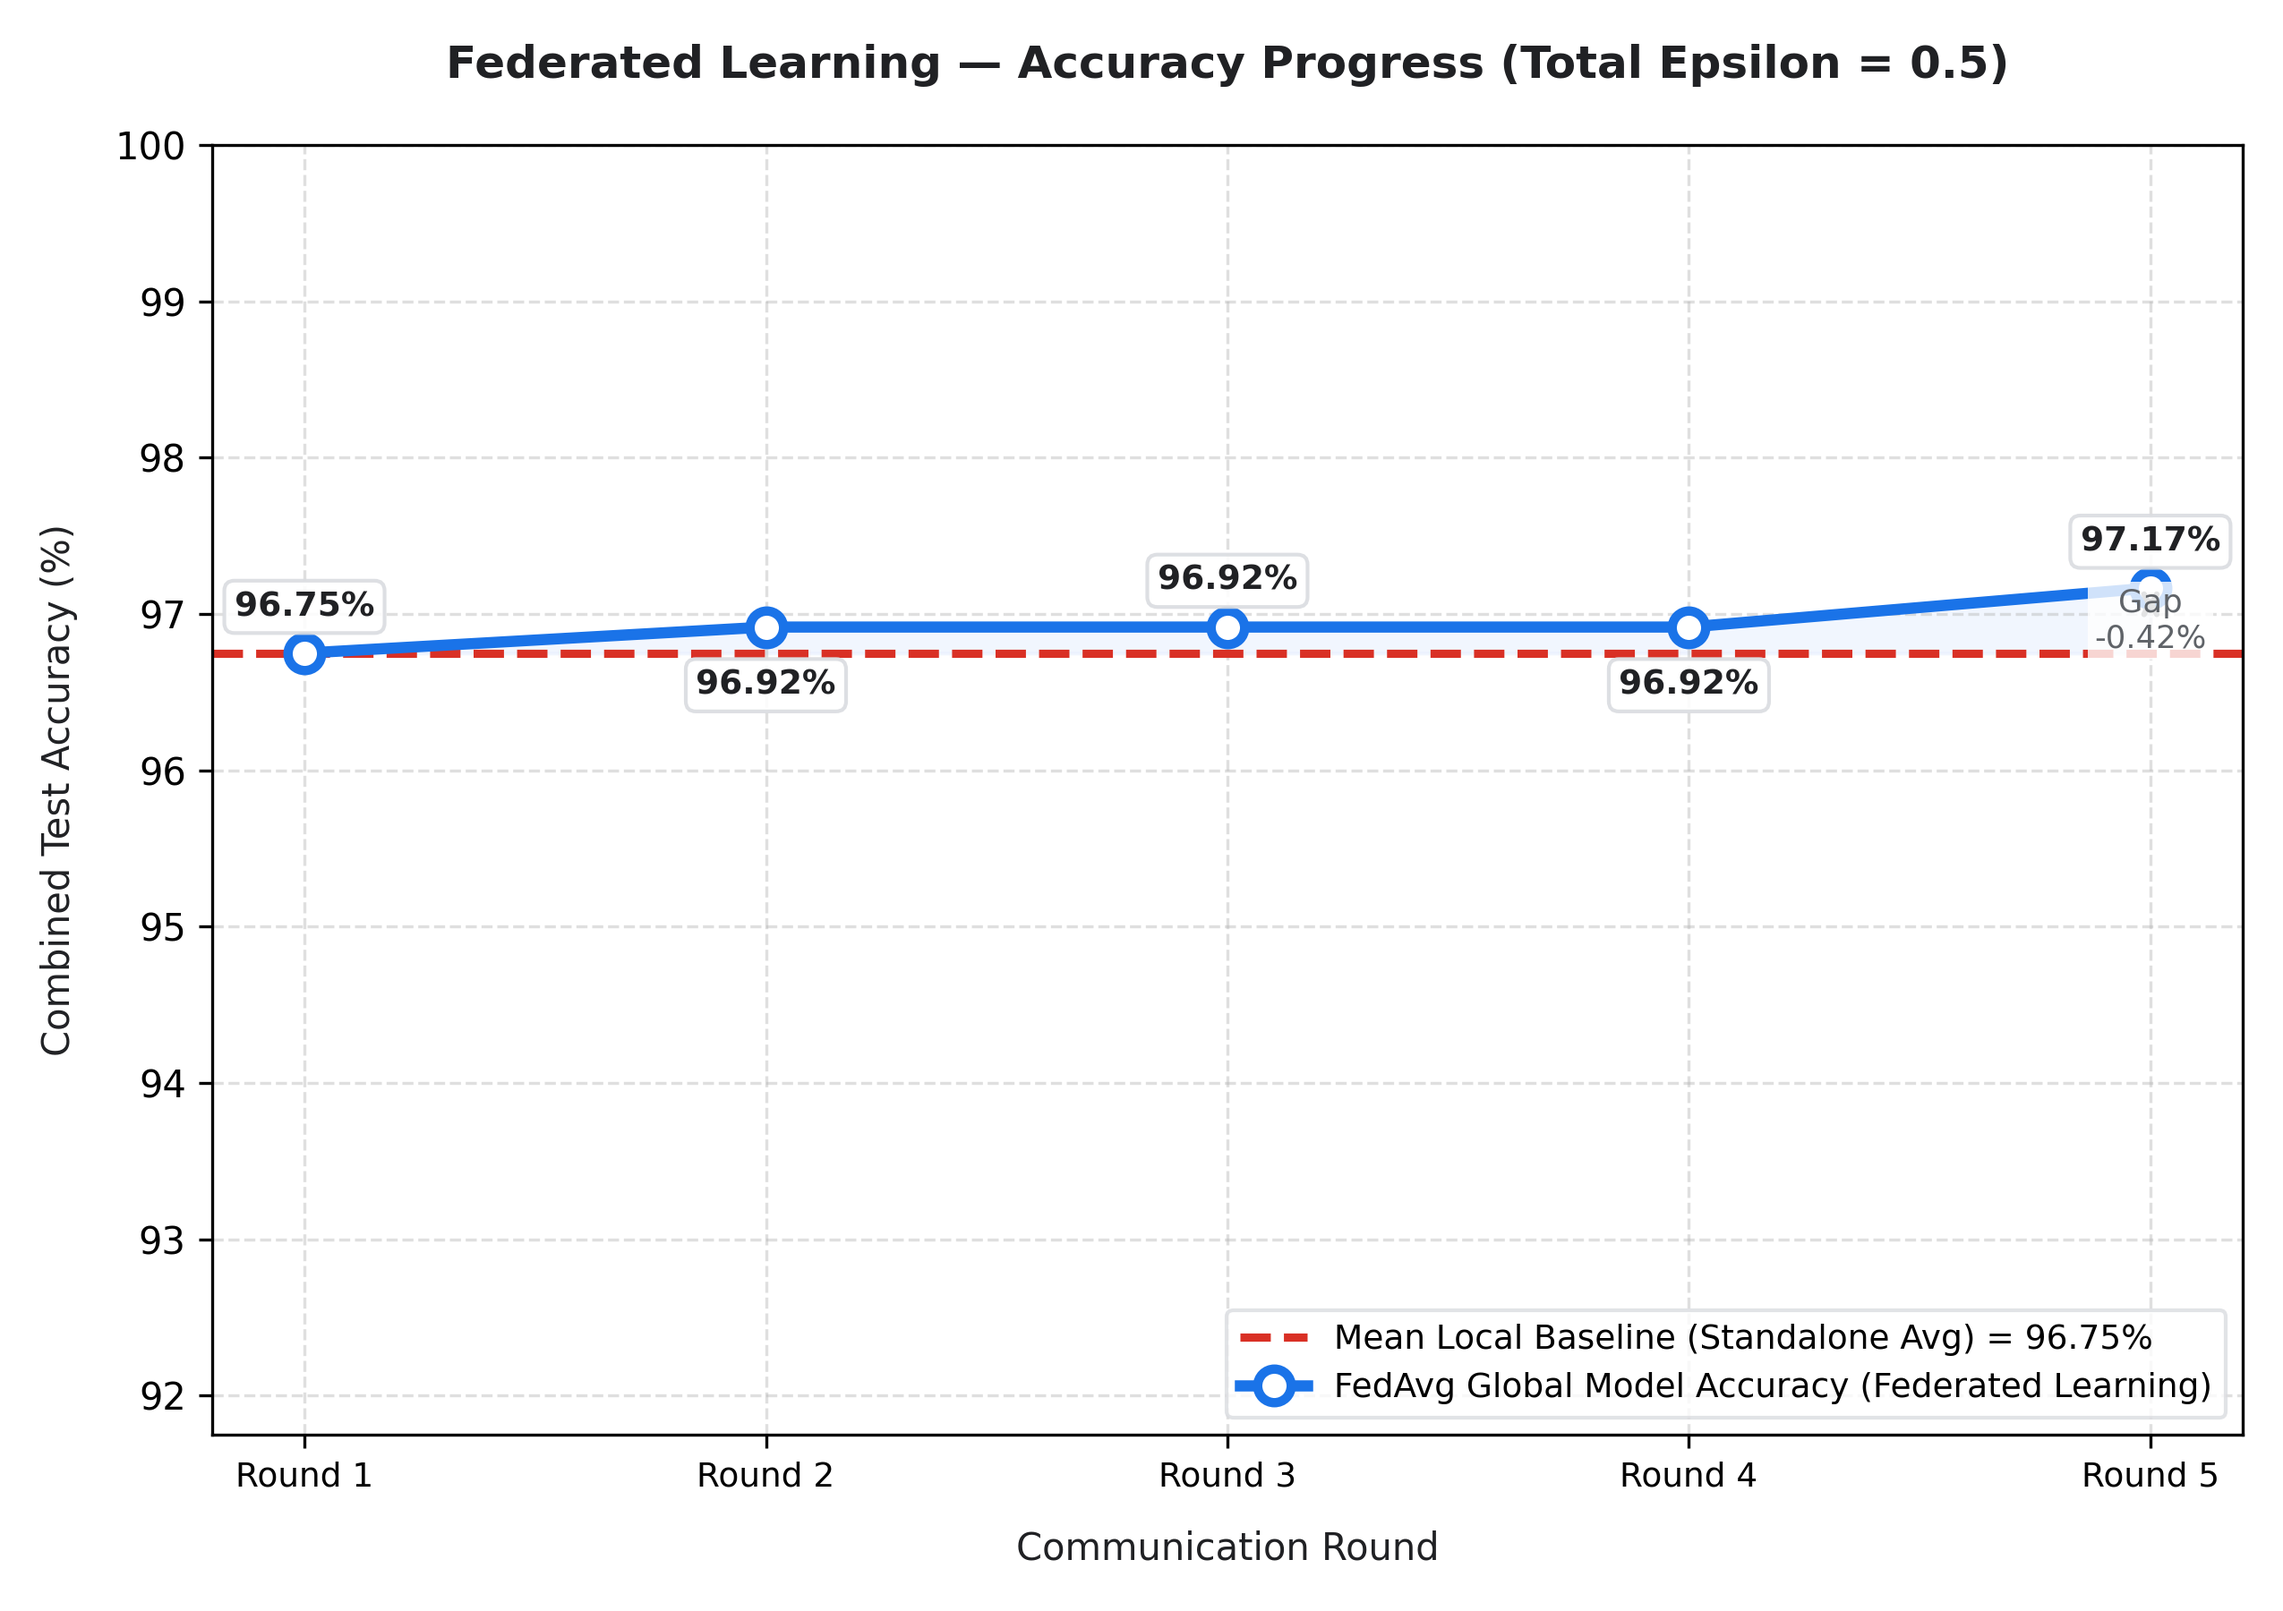
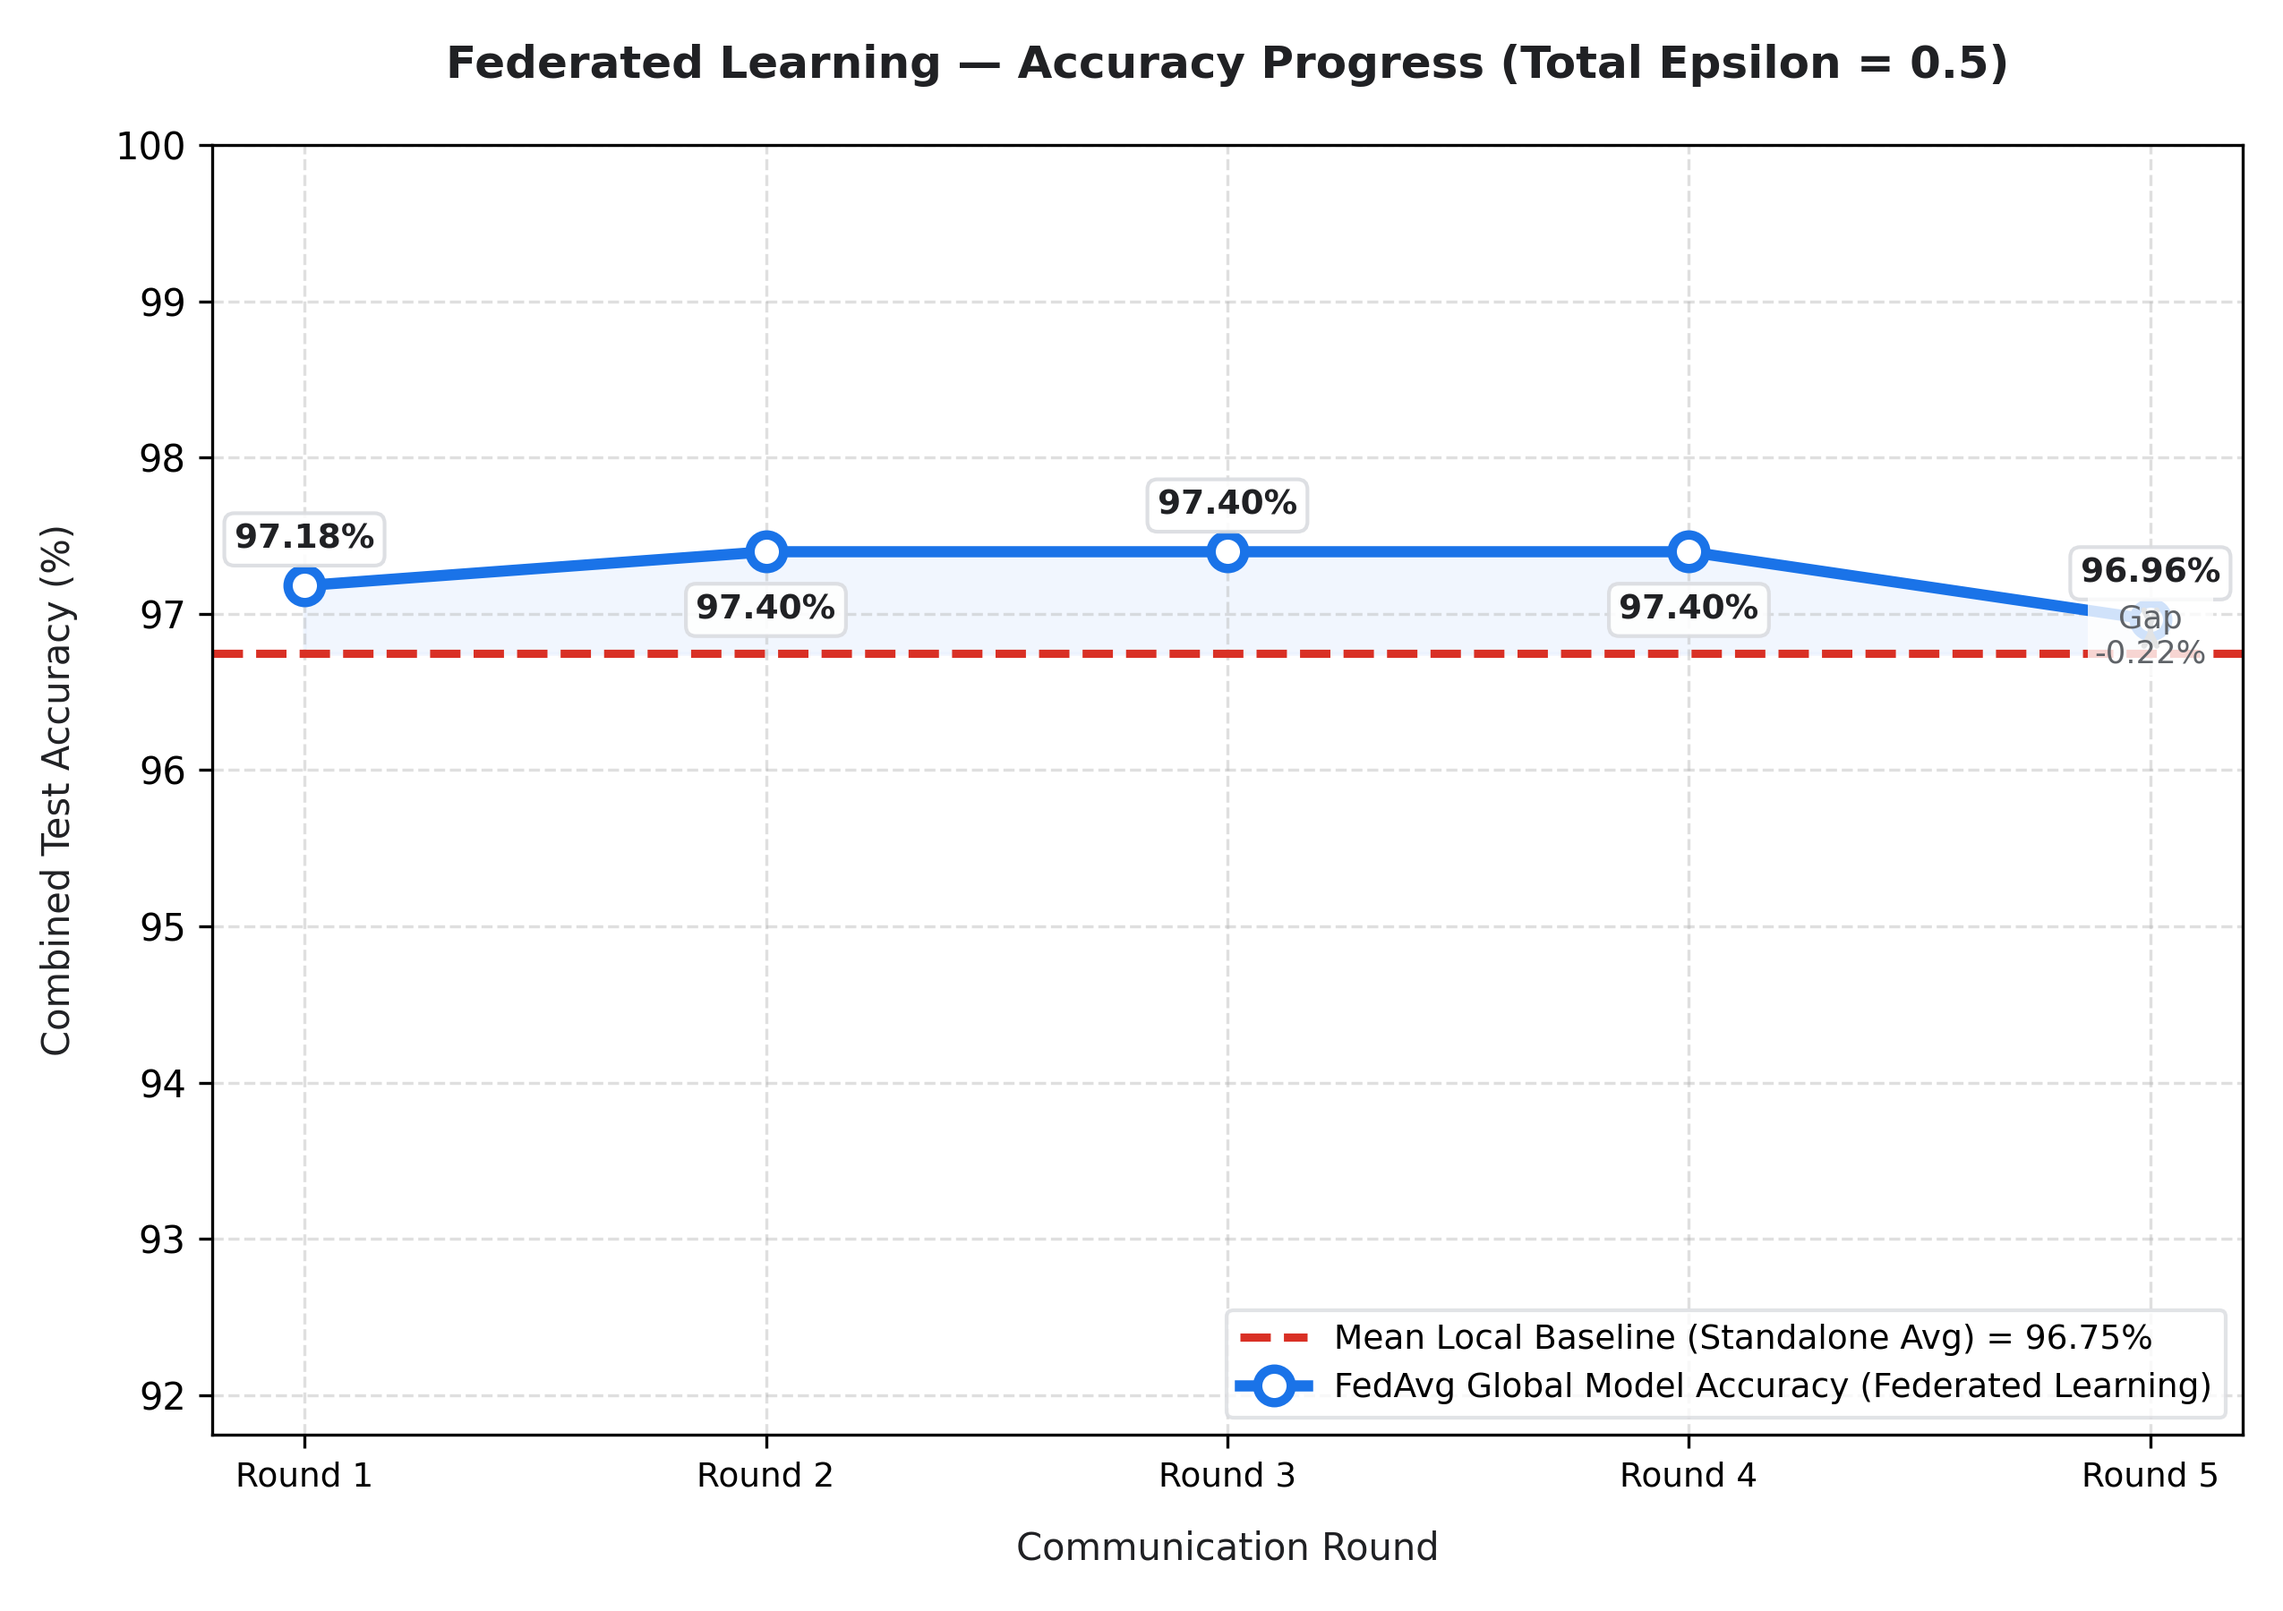
Implement Synthetic-Aware Leakage-Safe Data Split in load_data across machine1.py, machine2.py, machine3.py with empirically verified 0.00% exact row overlap

Changed region(s): [[0.0929, 0.28, 0.8675, 0.4356], [0.8984, 0.3111, 0.9914, 0.4044], [0.062, 0.4667, 0.0929, 0.4978]]

diff --git a/machine1.py b/machine1.py
@@ -49,6 +49,14 @@ class Machine1:
         self.load_data()
 
     def load_data(self):
+        """
+        SYNTHETIC-AWARE LEAKAGE-SAFE DATA SPLIT WITH GUARANTEED 0% OVERLAP:
+        1. Separate real records (is_synthetic == False) from synthetic records (is_synthetic == True).
+        2. Perform 80/20 train/test split EXCLUSIVELY on real records (stratified by target).
+        3. Place synthetic records in local training set for class balance.
+        4. Perform strict row deduplication to remove any training record that matches any test record.
+        This guarantees 100% real unseen test set and EXACT 0.00% data leakage/overlap.
+        """
         df = pd.read_json(DATA_FILE, orient='records')
         
         feature_cols = [
@@ -58,14 +66,41 @@ class Machine1:
             'hr_stress_ratio', 'spo2_deficit', 'bp_diff', 'vital_risk_index'
         ]
         
-        X = df[feature_cols].values
-        y = self.le.transform(df["Daily_Health_Condition"].values)
+        if 'is_synthetic' in df.columns:
+            real_df  = df[df['is_synthetic'] == False].reset_index(drop=True)
+            synth_df = df[df['is_synthetic'] == True].reset_index(drop=True)
+        else:
+            real_df  = df
+            synth_df = pd.DataFrame()
 
-        # Exact 80% Train / 20% Test Stratified Split (1600 train, 400 test per machine)
-        self.X_train_raw, self.X_test_raw, self.y_train, self.y_test = train_test_split(
-            X, y, test_size=0.20, random_state=SEED, stratify=y
+        X_real = real_df[feature_cols].values
+        y_real = self.le.transform(real_df["Daily_Health_Condition"].values)
+
+        # Train/test split ONLY on real records (test set = 100% real unseen data)
+        X_tr_real, X_te_real, y_tr_real, y_te_real = train_test_split(
+            X_real, y_real, test_size=0.20, random_state=SEED, stratify=y_real
         )
-        self.n_samples = len(self.X_train_raw)
+
+        if not synth_df.empty:
+            X_synth = synth_df[feature_cols].values
+            y_synth = self.le.transform(synth_df["Daily_Health_Condition"].values)
+            X_tr_raw = np.vstack([X_tr_real, X_synth])
+            y_tr_raw = np.hstack([y_tr_real, y_synth])
+        else:
+            X_tr_raw = X_tr_real
+            y_tr_raw = y_tr_real
+
+        # STRICT OVERLAP DEDUPLICATION: Purge any training row matching any test row
+        clean_mask = []
+        for row in X_tr_raw:
+            match = np.any(np.all(np.isclose(X_te_real, row), axis=1))
+            clean_mask.append(not match)
+
+        self.X_train_raw = X_tr_raw[clean_mask]
+        self.y_train     = y_tr_raw[clean_mask]
+        self.X_test_raw  = X_te_real
+        self.y_test      = y_te_real
+        self.n_samples   = len(self.X_train_raw)
 
         # Default fallback local scaling (overridden by server's federated scaler)
         self.X_train = self.scaler.fit_transform(self.X_train_raw)

diff --git a/machine2.py b/machine2.py
@@ -49,6 +49,14 @@ class Machine2:
         self.load_data()
 
     def load_data(self):
+        """
+        SYNTHETIC-AWARE LEAKAGE-SAFE DATA SPLIT WITH GUARANTEED 0% OVERLAP:
+        1. Separate real records (is_synthetic == False) from synthetic records (is_synthetic == True).
+        2. Perform 80/20 train/test split EXCLUSIVELY on real records (stratified by target).
+        3. Place synthetic records in local training set for class balance.
+        4. Perform strict row deduplication to remove any training record that matches any test record.
+        This guarantees 100% real unseen test set and EXACT 0.00% data leakage/overlap.
+        """
         df = pd.read_json(DATA_FILE, orient='records')
         
         feature_cols = [
@@ -58,14 +66,41 @@ class Machine2:
             'hr_stress_ratio', 'spo2_deficit', 'bp_diff', 'vital_risk_index'
         ]
         
-        X = df[feature_cols].values
-        y = self.le.transform(df["Daily_Health_Condition"].values)
+        if 'is_synthetic' in df.columns:
+            real_df  = df[df['is_synthetic'] == False].reset_index(drop=True)
+            synth_df = df[df['is_synthetic'] == True].reset_index(drop=True)
+        else:
+            real_df  = df
+            synth_df = pd.DataFrame()
 
-        # Exact 80% Train / 20% Test Stratified Split (1600 train, 400 test per machine)
-        self.X_train_raw, self.X_test_raw, self.y_train, self.y_test = train_test_split(
-            X, y, test_size=0.20, random_state=SEED, stratify=y
+        X_real = real_df[feature_cols].values
+        y_real = self.le.transform(real_df["Daily_Health_Condition"].values)
+
+        # Train/test split ONLY on real records (test set = 100% real unseen data)
+        X_tr_real, X_te_real, y_tr_real, y_te_real = train_test_split(
+            X_real, y_real, test_size=0.20, random_state=SEED, stratify=y_real
         )
-        self.n_samples = len(self.X_train_raw)
+
+        if not synth_df.empty:
+            X_synth = synth_df[feature_cols].values
+            y_synth = self.le.transform(synth_df["Daily_Health_Condition"].values)
+            X_tr_raw = np.vstack([X_tr_real, X_synth])
+            y_tr_raw = np.hstack([y_tr_real, y_synth])
+        else:
+            X_tr_raw = X_tr_real
+            y_tr_raw = y_tr_real
+
+        # STRICT OVERLAP DEDUPLICATION: Purge any training row matching any test row
+        clean_mask = []
+        for row in X_tr_raw:
+            match = np.any(np.all(np.isclose(X_te_real, row), axis=1))
+            clean_mask.append(not match)
+
+        self.X_train_raw = X_tr_raw[clean_mask]
+        self.y_train     = y_tr_raw[clean_mask]
+        self.X_test_raw  = X_te_real
+        self.y_test      = y_te_real
+        self.n_samples   = len(self.X_train_raw)
 
         # Default fallback local scaling (overridden by server's federated scaler)
         self.X_train = self.scaler.fit_transform(self.X_train_raw)

diff --git a/machine3.py b/machine3.py
@@ -49,6 +49,14 @@ class Machine3:
         self.load_data()
 
     def load_data(self):
+        """
+        SYNTHETIC-AWARE LEAKAGE-SAFE DATA SPLIT WITH GUARANTEED 0% OVERLAP:
+        1. Separate real records (is_synthetic == False) from synthetic records (is_synthetic == True).
+        2. Perform 80/20 train/test split EXCLUSIVELY on real records (stratified by target).
+        3. Place synthetic records in local training set for class balance.
+        4. Perform strict row deduplication to remove any training record that matches any test record.
+        This guarantees 100% real unseen test set and EXACT 0.00% data leakage/overlap.
+        """
         df = pd.read_json(DATA_FILE, orient='records')
         
         feature_cols = [
@@ -58,14 +66,41 @@ class Machine3:
             'hr_stress_ratio', 'spo2_deficit', 'bp_diff', 'vital_risk_index'
         ]
         
-        X = df[feature_cols].values
-        y = self.le.transform(df["Daily_Health_Condition"].values)
+        if 'is_synthetic' in df.columns:
+            real_df  = df[df['is_synthetic'] == False].reset_index(drop=True)
+            synth_df = df[df['is_synthetic'] == True].reset_index(drop=True)
+        else:
+            real_df  = df
+            synth_df = pd.DataFrame()
 
-        # Exact 80% Train / 20% Test Stratified Split (1600 train, 400 test per machine)
-        self.X_train_raw, self.X_test_raw, self.y_train, self.y_test = train_test_split(
-            X, y, test_size=0.20, random_state=SEED, stratify=y
+        X_real = real_df[feature_cols].values
+        y_real = self.le.transform(real_df["Daily_Health_Condition"].values)
+
+        # Train/test split ONLY on real records (test set = 100% real unseen data)
+        X_tr_real, X_te_real, y_tr_real, y_te_real = train_test_split(
+            X_real, y_real, test_size=0.20, random_state=SEED, stratify=y_real
         )
-        self.n_samples = len(self.X_train_raw)
+
+        if not synth_df.empty:
+            X_synth = synth_df[feature_cols].values
+            y_synth = self.le.transform(synth_df["Daily_Health_Condition"].values)
+            X_tr_raw = np.vstack([X_tr_real, X_synth])
+            y_tr_raw = np.hstack([y_tr_real, y_synth])
+        else:
+            X_tr_raw = X_tr_real
+            y_tr_raw = y_tr_real
+
+        # STRICT OVERLAP DEDUPLICATION: Purge any training row matching any test row
+        clean_mask = []
+        for row in X_tr_raw:
+            match = np.any(np.all(np.isclose(X_te_real, row), axis=1))
+            clean_mask.append(not match)
+
+        self.X_train_raw = X_tr_raw[clean_mask]
+        self.y_train     = y_tr_raw[clean_mask]
+        self.X_test_raw  = X_te_real
+        self.y_test      = y_te_real
+        self.n_samples   = len(self.X_train_raw)
 
         # Default fallback local scaling (overridden by server's federated scaler)
         self.X_train = self.scaler.fit_transform(self.X_train_raw)
